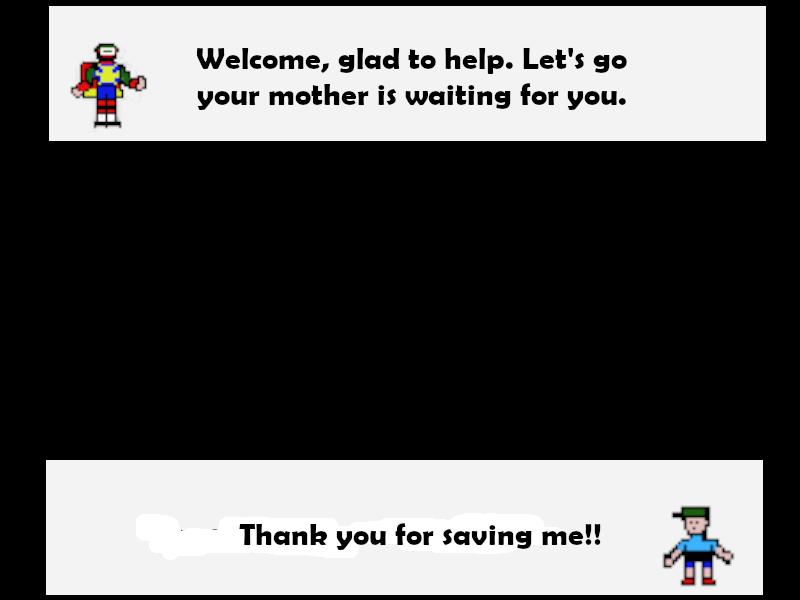
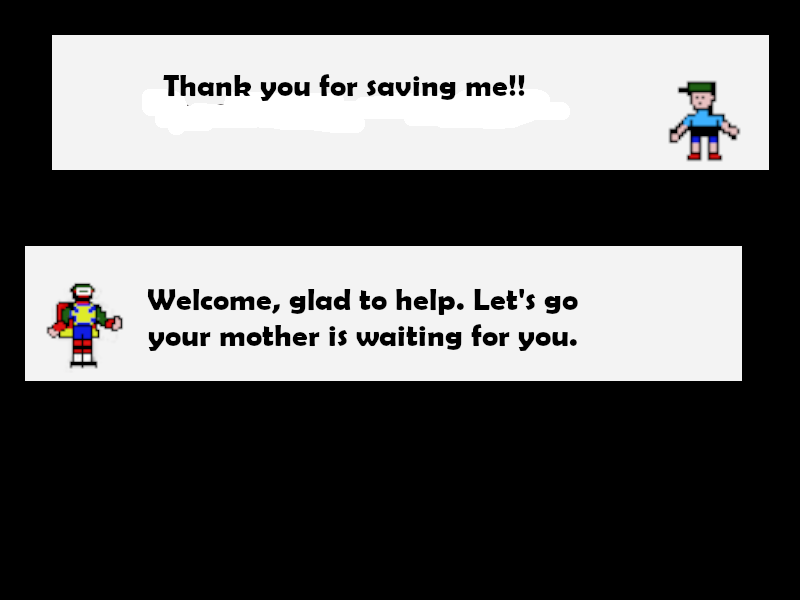
test to send character after saving boy to forest - WIP

diff --git a/js/UserInterface.js b/js/UserInterface.js
@@ -41,21 +41,21 @@ var levelStoryMenu = [  86,0,0,0,0,0,0,0,0,0,0,0,0,0,0,0,0,0,0,0,
   0,0,0,0,0,0,0,0,0,0,0,0,0,0,0,0,0,0,0,0,  
   0,0,0,0,0,0,0,0,0,0,0,0,0,0,0,0,0,0,0,0,   
   0,0,0,0,0,0,0,0,0,0,0,0,0,0,0,0,0,0,0,0,  ];
-  var levelStoryBoy = [  87,0,0,0,0,0,0,0,0,0,0,0,0,0,0,0,0,0,0,0,  
-    0,0,0,0,0,0,0,0,0,0,0,0,0,0,0,0,0,0,0,0,  
-    0,0,0,0,0,0,0,0,0,0,0,0,0,0,0,0,0,0,0,0,  
-    0,0,0,0,0,0,0,0,0,0,0,0,0,0,0,0,0,0,0,0,  
-    0,0,0,0,0,0,0,0,0,0,0,0,0,0,0,0,0,0,0,0,  
-    0,0,0,0,0,0,0,0,0,0,0,0,0,0,0,0,0,0,0,0,   
-    0,0,0,0,0,0,0,0,0,0,0,0,0,0,0,0,0,0,0,0,                                              
-    0,0,0,0,0,0,0,0,0,0,0,0,0,0,0,0,0,0,0,0,     
-    0,0,0,0,0,0,0,0,0,0,0,0,0,0,0,0,0,0,0,0,   
-    0,0,0,0,0,0,0,0,0,0,0,0,0,0,0,0,0,0,0,0,   
-    0,0,0,0,0,0,0,0,0,0,0,0,0,0,0,0,0,0,0,0,   
-    0,0,0,0,0,0,0,0,0,0,0,0,0,0,0,0,0,0,0,0,                                                                                                                            
-    0,0,0,0,0,0,0,0,0,0,0,0,0,0,0,0,0,0,0,0,  
-    0,0,0,0,0,0,0,0,0,0,0,0,0,0,0,0,0,0,0,0,   
-    0,0,0,0,0,0,0,0,0,0,0,0,0,0,0,0,0,0,0,0,  ];
+  var levelStoryBoy = [  87,0,0,0,0,0,0,0,0,0,0,0,0,0,0,88,0,0,0,0,  
+    0,0,0,0,0,0,0,0,0,0,0,0,0,0,0,88,0,0,0,0,  
+    0,0,0,0,0,0,0,0,0,0,0,0,0,0,0,88,0,0,0,0,  
+    0,0,0,0,0,0,0,0,0,0,0,0,0,0,0,88,0,0,0,0,  
+    0,0,0,0,0,0,0,0,0,0,0,0,0,0,0,88,0,0,0,0,  
+    0,0,0,0,0,0,0,0,0,0,0,0,0,0,0,88,0,0,0,0,   
+    0,0,0,0,0,0,0,0,0,0,0,0,0,0,0,88,0,0,0,0,                                              
+    0,0,0,0,0,0,0,0,0,0,0,0,0,0,0,88,0,0,0,0,     
+    0,0,0,0,0,0,0,0,0,0,0,0,0,0,0,88,0,0,0,0,   
+    0,0,0,0,0,0,0,0,0,0,0,0,0,0,0,88,0,0,0,0,   
+    0,0,0,0,0,0,0,0,0,0,0,0,0,0,0,88,0,0,0,0,   
+    0,0,0,0,0,0,0,0,0,0,0,0,0,0,0,88,0,0,0,0,                                                                                                                            
+    0,0,0,0,0,0,0,0,0,0,0,0,0,0,0,88,0,0,0,0,  
+    0,0,0,0,0,0,0,0,0,0,0,0,0,0,0,88,0,0,0,0,   
+    0,0,0,0,0,0,0,0,0,0,0,0,0,0,89,88,0,0,0,0,];
 var storyMenu = [levelStoryMenu];
 var storyBoy = [levelStoryBoy];
 /*

diff --git a/js/Hero.js b/js/Hero.js
@@ -810,14 +810,21 @@ function heroClass() {
         break;
 
         case WORLD_LABDOOR:
-         
+   
            
-           
+
             loadLevel(levelForestLaboratory);// need to write code to nly activate this when final Boss is killed.
   
          
           break;
-
+        
+        case WORLD_EXITDOOR:
+          worldNow=1;
+          document.getElementById('gameHeading').innerHTML = 'TERROFADIA FOREST';
+          levelList=worldList[worldNow];
+          levelNow =0;
+          loadLevel(levelList[levelNow]);
+          break;
       case WORLD_TREEBRANCH:
         if (this.daggersHeld > 0) {
           this.daggersHeld--;

diff --git a/js/World.js b/js/World.js
@@ -360,6 +360,8 @@ var sideQuest4 = [
         const WORLD_TREASURECHEST =85;
         const WORLD_STORY =86;
         const WORLD_STORYBOY =87;
+        const WORLD_BLACKTILES =88;
+        const WORLD_EXITDOOR =89;
         // const WORLD_SMALLBRICK 
 
        
@@ -470,7 +472,9 @@ var sideQuest4 = [
             checkTileType == WORLD_FORESTGRASS2 ||
             checkTileType == WORLD_FORESTGRASS3 ||
             checkTileType == WORLD_MOUNTAIN ||
-            checkTileType == WORLD_FORESTROCK
+            checkTileType == WORLD_FORESTROCK ||
+            checkTileType == WORLD_EXITDOOR
+           
             
 
           

diff --git a/js/ImageLoading.js b/js/ImageLoading.js
@@ -158,7 +158,9 @@ function loadImages() {
 
     { trackType: WORLD_WATER, theFile: "sewerWater.png" },
     { trackType: WORLD_STORY, theFile: "robo-explorer-story-image1.jpg" },
-    { trackType: WORLD_STORYBOY, theFile: "BossCockroachStory3.png" }
+    { trackType: WORLD_STORYBOY, theFile: "BossCockroachStory3.png" },
+    { trackType: WORLD_BLACKTILES, theFile: "black.png" },
+    { trackType: WORLD_EXITDOOR, theFile: "exitDoor.png" }
     
 
   ];

diff --git a/js/Main.js b/js/Main.js
@@ -618,6 +618,7 @@ function moveAll() {
         bossAudio.pause();
        //Load story of boy being saved by Robo-explorer.
         worldNow=4;
+        document.getElementById('gameHeading').innerHTML = 'TERROFADIA TUNNELS';
         levelList=worldList[worldNow];
         levelNow =0;
         loadLevel(levelList[levelNow]);
